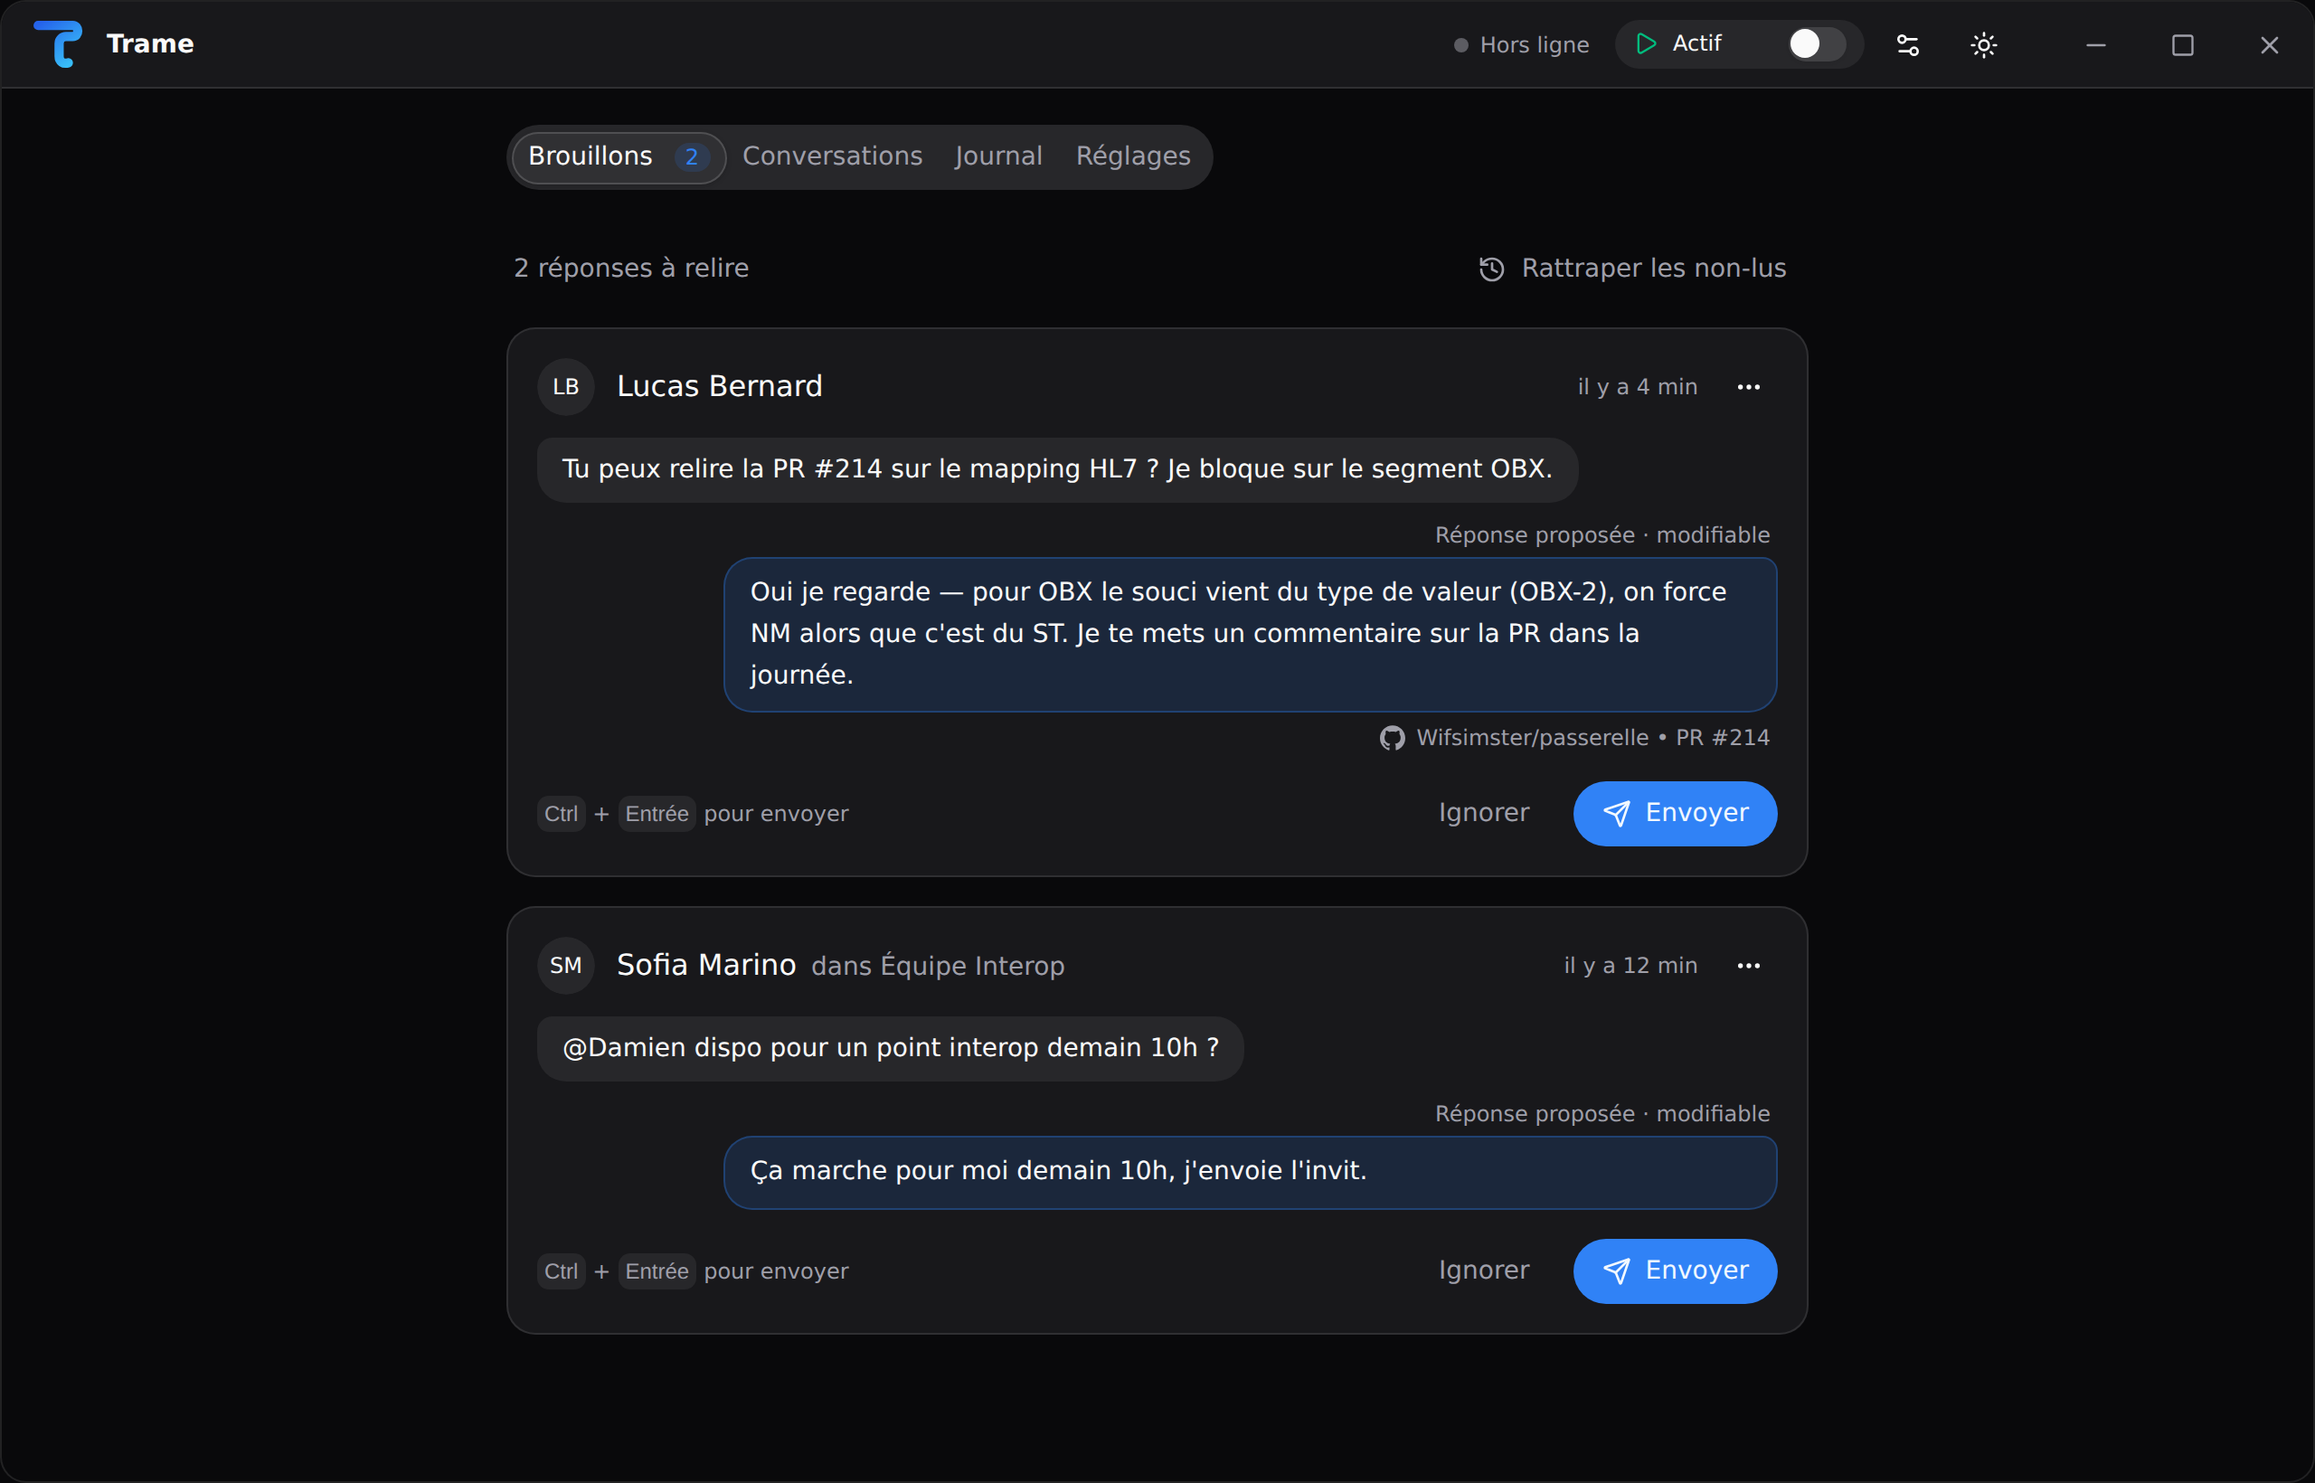
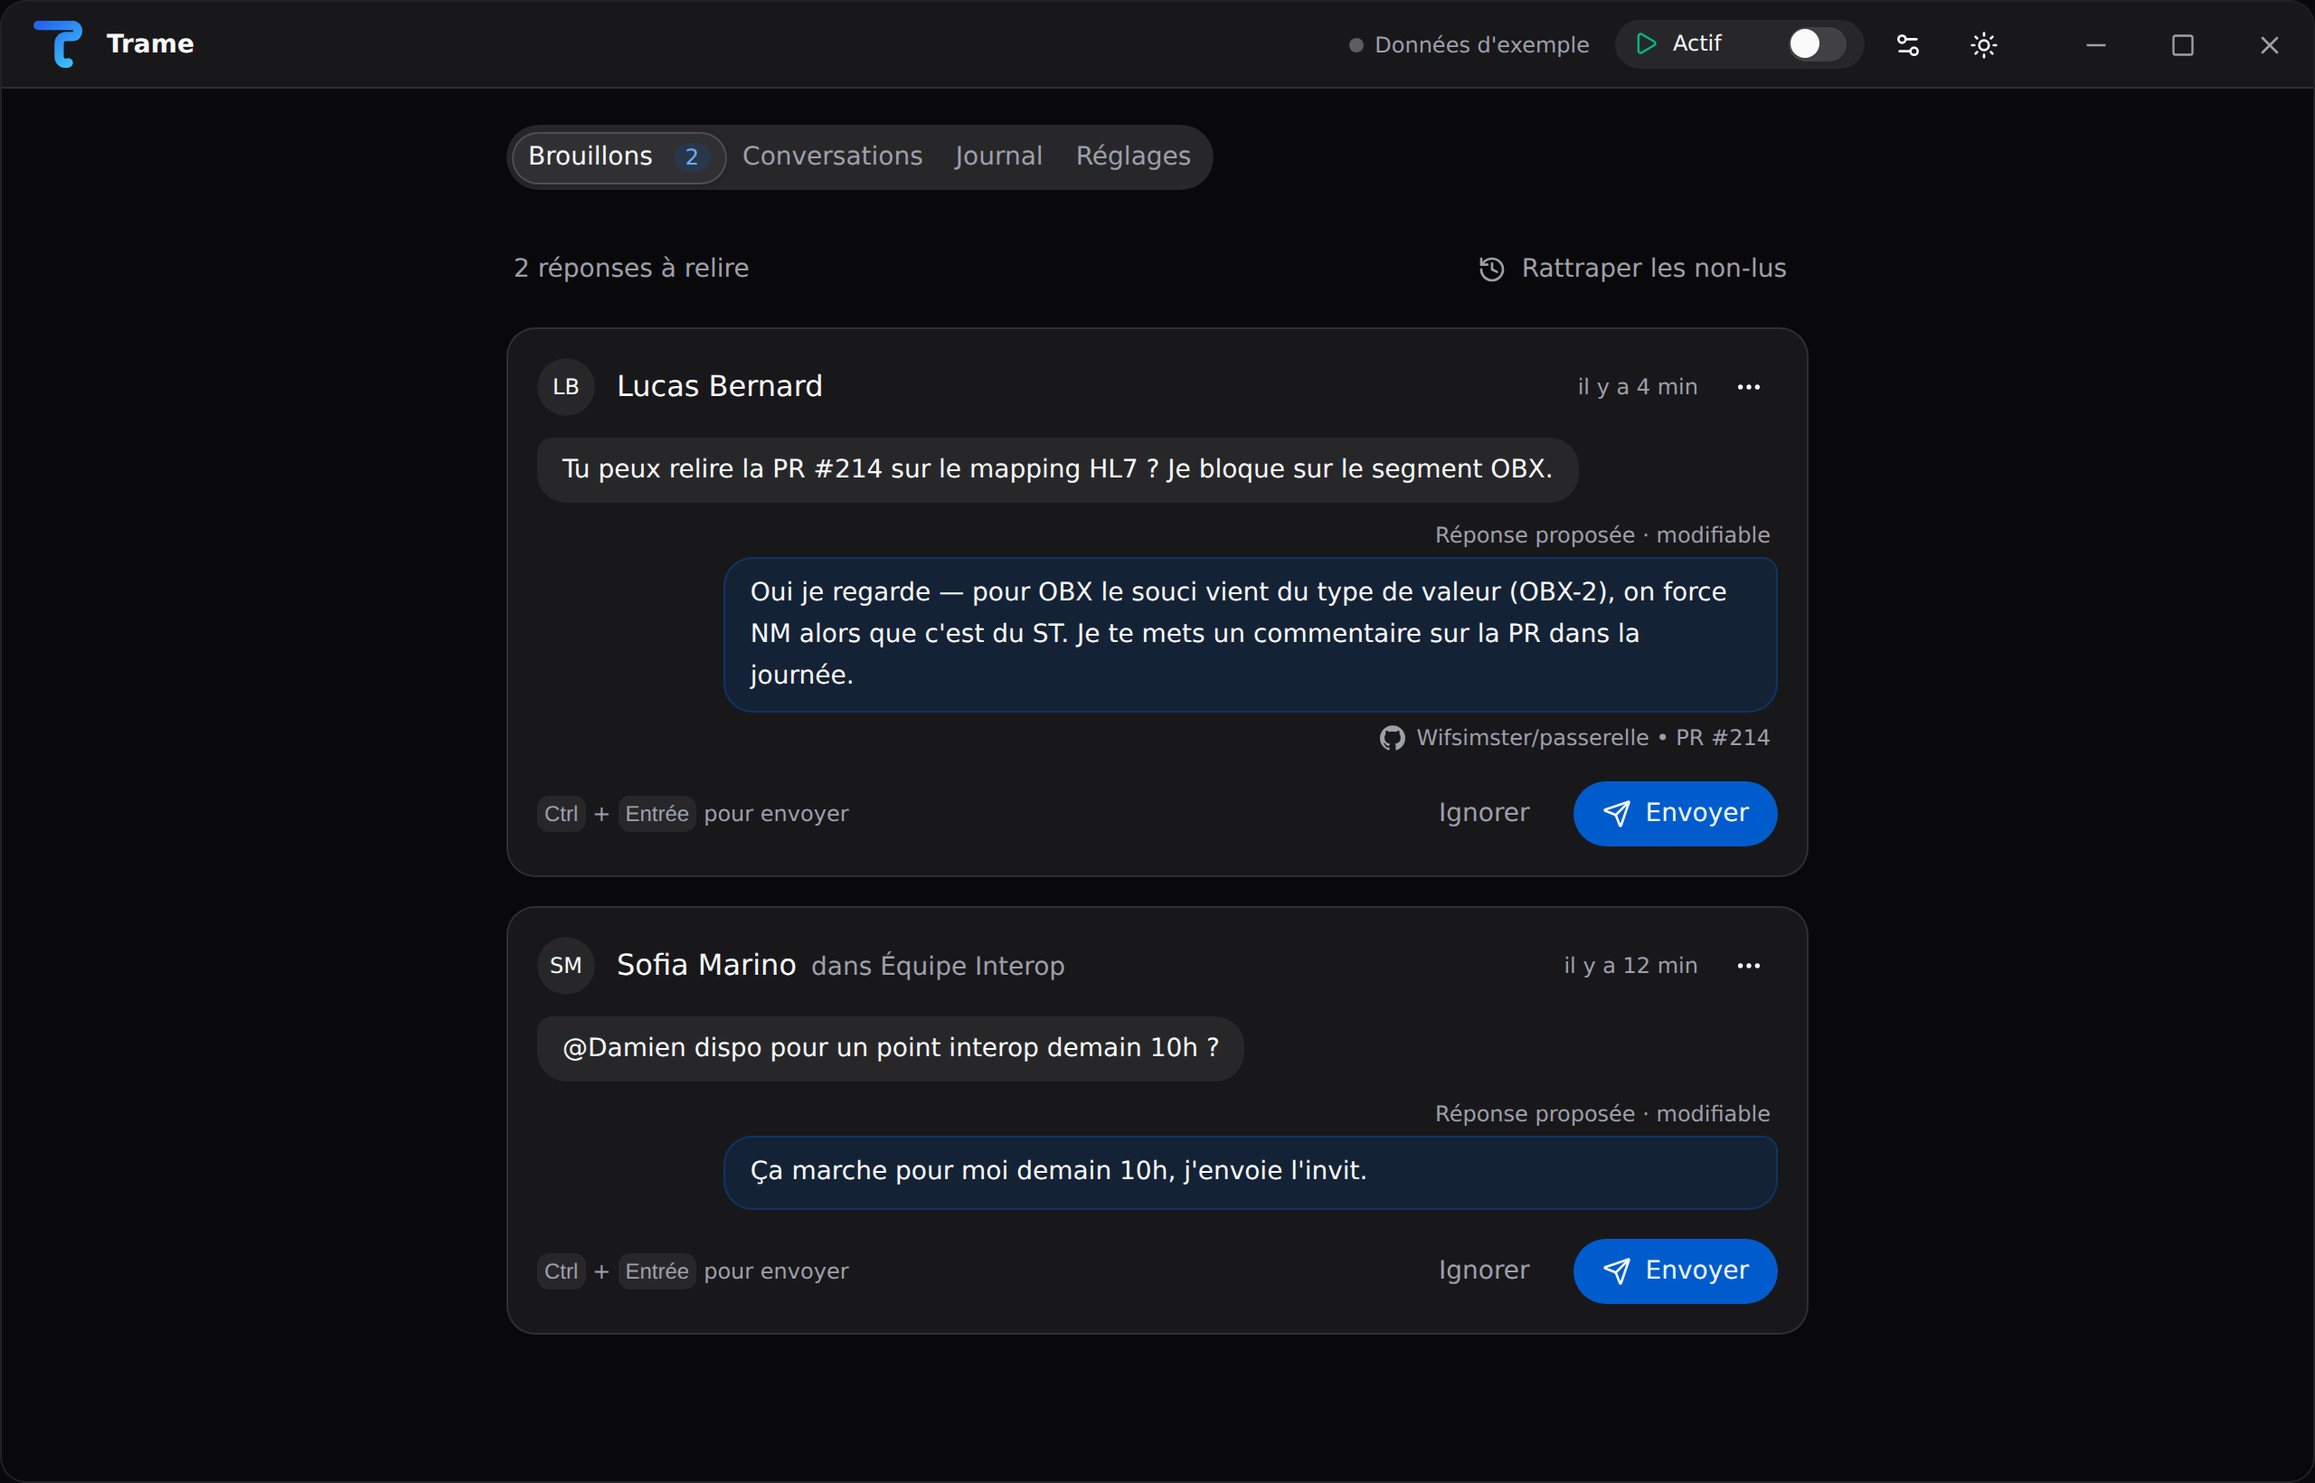
Passe anti-slop (antislop-ui, antislop-copywriting)
- Plus aucune animation en boucle au repos : une seule onde à la
  connexion, le fantôme s'immobilise après quelques cycles.
- États vides qui disent quoi faire : « Choisir des conversations »,
  « Tout afficher » ; plus de doublon « Tout est à jour ».
- « Données d'exemple » affiché en clair hors moteur.
- « Résumé » partout à l'écran (plus de « brief »).
- DESIGN.md : choix assumés de la check-list et leur raison.

Changed region(s): [[0.6562, 0.8085, 0.7812, 0.9018], [0.6562, 0.5287, 0.7812, 0.5909], [0.625, 0.0, 0.6562, 0.0311]]

diff --git a/ui/src/panel/Panel.tsx b/ui/src/panel/Panel.tsx
@@ -52,7 +52,7 @@ function ContextButton({ trame, target, onBrief, compact }: { trame: Trame; targ
         <span className="inline-flex">{button}</span>
       </TooltipTrigger>
       <TooltipContent>
-        {enabled ? "Résumé de la conversation et liens GitHub" : "Brief de conversation désactivé dans Réglages"}
+        {enabled ? "Résumé de la conversation et liens GitHub" : "Résumé désactivé dans les réglages"}
       </TooltipContent>
     </Tooltip>
   );
@@ -61,6 +61,7 @@ function ContextButton({ trame, target, onBrief, compact }: { trame: Trame; targ
 export function Panel({ trame }: { trame: Trame }) {
   const { state } = trame;
   const [briefFor, setBriefFor] = useState<BriefTarget | null>(null);
+  const [tab, setTab] = useState("drafts");
   // Le brief n'est chargé qu'à la première ouverture, puis reste monté pour ses animations.
   const [briefUsed, setBriefUsed] = useState(false);
   useEffect(() => {
@@ -101,7 +102,7 @@ export function Panel({ trame }: { trame: Trame }) {
         )}
       </AnimatePresence>
 
-      <Tabs defaultValue="drafts" className="flex min-h-0 flex-1 flex-col">
+      <Tabs value={tab} onValueChange={setTab} className="flex min-h-0 flex-1 flex-col">
         <TabsList className="self-start rounded-full">
           <TabsTrigger value="drafts" className="rounded-full">
             Brouillons <CountBadge n={state.drafts.length} />
@@ -112,7 +113,7 @@ export function Panel({ trame }: { trame: Trame }) {
         </TabsList>
 
         <TabsContent value="drafts" className="flex-1 overflow-auto">
-          <Drafts trame={trame} onBrief={setBriefFor} />
+          <Drafts trame={trame} onBrief={setBriefFor} onChoose={() => setTab("watchlist")} />
         </TabsContent>
         <TabsContent value="watchlist" className="flex-1 overflow-auto">
           <Watchlist trame={trame} onBrief={setBriefFor} />
@@ -133,7 +134,7 @@ export function Panel({ trame }: { trame: Trame }) {
   );
 }
 
-function Drafts({ trame, onBrief }: { trame: Trame; onBrief: OpenBrief }) {
+function Drafts({ trame, onBrief, onChoose }: { trame: Trame; onBrief: OpenBrief; onChoose: () => void }) {
   const drafts = trame.state.drafts;
   const [catching, setCatching] = useState<"idle" | "run" | "done">("idle");
   const [added, setAdded] = useState(0);
@@ -167,9 +168,7 @@ function Drafts({ trame, onBrief }: { trame: Trame; onBrief: OpenBrief }) {
             exit={{ opacity: 0, y: -4 }}
             className="ml-1 text-sm text-muted-foreground"
           >
-            {drafts.length === 0
-              ? "Tout est à jour"
-              : `${drafts.length} réponse${drafts.length > 1 ? "s" : ""} à relire`}
+            {drafts.length > 0 && `${drafts.length} réponse${drafts.length > 1 ? "s" : ""} à relire`}
           </motion.p>
         </AnimatePresence>
         <motion.div animate={controls}>
@@ -204,7 +203,9 @@ function Drafts({ trame, onBrief }: { trame: Trame; onBrief: OpenBrief }) {
       </div>
 
       <AnimatePresence initial={false} mode="popLayout">
-        {drafts.length === 0 && <EmptyDrafts key="empty" />}
+        {drafts.length === 0 && (
+          <EmptyDrafts key="empty" following={trame.state.watchlist.filter((w) => w.watch).length} onChoose={onChoose} />
+        )}
         {drafts.map((d) => (
           <DraftCard key={d.id} draft={d} trame={trame} onBrief={onBrief} />
         ))}
@@ -213,7 +214,7 @@ function Drafts({ trame, onBrief }: { trame: Trame; onBrief: OpenBrief }) {
   );
 }
 
-function EmptyDrafts() {
+function EmptyDrafts({ following, onChoose }: { following: number; onChoose: () => void }) {
   return (
     <motion.div
       initial={{ opacity: 0, scale: 0.97 }}
@@ -229,10 +230,22 @@ function EmptyDrafts() {
       >
         <Check className="size-6" strokeWidth={3} />
       </motion.span>
-      <p className="font-medium">Rien à relire</p>
-      <p className="max-w-xs text-sm text-muted-foreground">
-        Quand quelqu'un que tu suis t'écrit, sa réponse proposée apparaît ici.
-      </p>
+      {following > 0 ? (
+        <>
+          <p className="font-medium">Rien à relire</p>
+          <p className="max-w-xs text-sm text-muted-foreground">
+            Trame suit {following} conversation{following > 1 ? "s" : ""}. Quand on t'y écrit, la réponse proposée apparaît ici.
+          </p>
+        </>
+      ) : (
+        <>
+          <p className="font-medium">Aucune conversation suivie</p>
+          <p className="max-w-xs text-sm text-muted-foreground">Trame ne lit que les conversations que tu choisis.</p>
+          <Button variant="secondary" className="rounded-full" onClick={onChoose}>
+            Choisir des conversations
+          </Button>
+        </>
+      )}
     </motion.div>
   );
 }
@@ -492,7 +505,11 @@ function Logs({ logs }: { logs: LogItem[] }) {
       <SectionLabel>Activité</SectionLabel>
       <GroupList>
         <ScrollArea className="h-[58vh]">
-          {logs.length === 0 && <div className="px-4 py-6 text-center text-sm text-muted-foreground">Aucune activité pour l'instant.</div>}
+          {logs.length === 0 && (
+            <div className="px-4 py-6 text-center text-sm text-muted-foreground">
+              Aucune activité pour l'instant. Chaque message lu, réponse proposée ou envoi apparaîtra ici.
+            </div>
+          )}
           <AnimatePresence initial={false}>
             {logs.map((l) => (
               <motion.div

diff --git a/ui/src/components/SoulGhost.tsx b/ui/src/components/SoulGhost.tsx
@@ -21,7 +21,7 @@ const center = { transformBox: "fill-box", transformOrigin: "center" } as const;
 
 export function SoulGhost({ state, size = 76 }: { state: GhostState; size?: number }) {
   const body = {
-    idle: { y: [0, -4, 0], rotate: 0, scale: 1, transition: { y: { duration: 3, repeat: Infinity, ease: "easeInOut" as const } } },
+    idle: { y: [0, -4, 0], rotate: 0, scale: 1, transition: { y: { duration: 3, repeat: 2, ease: "easeInOut" as const } } },
     drag: { y: [-6, -10, -6], rotate: 0, scale: 1.12, transition: { y: { duration: 1.1, repeat: Infinity, ease: "easeInOut" as const }, scale: { type: "spring" as const, stiffness: 300, damping: 15 } } },
     ok: { y: [0, -12, 0, -3, 0], rotate: 0, scale: 1, transition: { y: { duration: 0.9, delay: 0.45, ease: "easeOut" as const } } },
     error: { y: 0, rotate: [0, -12, 10, -7, 4, 0], scale: 1, transition: { rotate: { duration: 0.6 } } },
@@ -61,7 +61,7 @@ export function SoulGhost({ state, size = 76 }: { state: GhostState; size?: numb
         strokeWidth={2.4}
         strokeLinejoin="round"
         animate={{ skewX: state === "error" ? 0 : [0, 2.5, 0, -2.5, 0] }}
-        transition={{ duration: state === "drag" ? 1.2 : 3.2, repeat: Infinity, ease: "easeInOut" }}
+        transition={{ duration: state === "drag" ? 1.2 : 3.2, repeat: state === "drag" ? Infinity : 2, ease: "easeInOut" }}
         style={{ transformBox: "fill-box", transformOrigin: "50% 0%" }}
       />
 
@@ -82,7 +82,7 @@ export function SoulGhost({ state, size = 76 }: { state: GhostState; size?: numb
                 transition={{
                   rx: { type: "spring", stiffness: 400, damping: 18 },
                   ry: { type: "spring", stiffness: 400, damping: 18 },
-                  scaleY: { duration: 4, times: [0, 0.9, 0.95, 1], repeat: Infinity },
+                  scaleY: { duration: 4, times: [0, 0.9, 0.95, 1], repeat: 2 },
                 }}
                 style={center}
               />

diff --git a/ui/src/App.tsx b/ui/src/App.tsx
@@ -197,16 +197,21 @@ function ConnectionBadge({ connected, demo }: { connected: boolean; demo: boolea
       <TooltipTrigger asChild>
         <div className="flex items-center gap-1.5 rounded-full px-2 py-1 text-xs text-muted-foreground">
           <span className="relative grid size-2 place-items-center">
-            {connected && (
-              <motion.span
-                className="absolute inset-0 rounded-full bg-success"
-                animate={{ scale: [1, 2.4], opacity: [0.6, 0] }}
-                transition={{ duration: 1.6, repeat: Infinity, ease: "easeOut" }}
-              />
-            )}
+            {/* Une seule onde à la connexion : elle confirme le changement d'état, puis le point reste calme. */}
+            <AnimatePresence>
+              {connected && (
+                <motion.span
+                  key="ping"
+                  className="absolute inset-0 rounded-full bg-success"
+                  initial={{ scale: 1, opacity: 0.6 }}
+                  animate={{ scale: 2.4, opacity: 0 }}
+                  transition={{ duration: 1.2, ease: "easeOut" }}
+                />
+              )}
+            </AnimatePresence>
             <span className={cn("relative size-2 rounded-full transition-colors duration-300", connected ? "bg-success" : "bg-muted-foreground/50")} />
           </span>
-          <span className="hidden sm:inline">{connected ? "En direct" : "Hors ligne"}</span>
+          <span className="hidden sm:inline">{connected ? "En direct" : demo ? "Données d'exemple" : "Hors ligne"}</span>
         </div>
       </TooltipTrigger>
       <TooltipContent>

diff --git a/ui/src/components/ConversationList.tsx b/ui/src/components/ConversationList.tsx
@@ -127,8 +127,20 @@ export function ConversationList({
               </div>
             ))}
             {visible.length === 0 && (
-              <div className="px-4 py-10 text-center text-sm text-muted-foreground">
+              <div className="flex flex-col items-center gap-2 px-4 py-10 text-center text-sm text-muted-foreground">
                 Aucune conversation ne correspond{query ? ` à « ${query} »` : ""}.
+                {(query || filter !== "all") && (
+                  <button
+                    type="button"
+                    className="font-medium text-link hover:underline"
+                    onClick={() => {
+                      setQuery("");
+                      setFilter("all");
+                    }}
+                  >
+                    Tout afficher
+                  </button>
+                )}
               </div>
             )}
           </div>

diff --git a/ui/src/components/BriefSheet.tsx b/ui/src/components/BriefSheet.tsx
@@ -76,7 +76,7 @@ export function BriefSheet({
       setPhase("error");
       progressCtl.start(shake);
       toast.error(`Brief impossible pour « ${t.displayName} »`, {
-        description: `${res.error} Rien n'a été perdu${prev ? ", le brief précédent est conservé" : ""}.`,
+        description: `${res.error} Rien n'a été perdu${prev ? ", le résumé précédent est conservé" : ""}.`,
       });
       return;
     }

diff --git a/DESIGN.md b/DESIGN.md
@@ -219,3 +219,16 @@ couche UIA se cale sur la machine (phase 0, le vrai go/no-go).
 - **Accessibilité** : audit axe-core WCAG 2 AA sur les 12 écrans, sans violation (hors animations d'apparition). Chaque interrupteur et bouton-icône a un nom accessible.
 - **Vocabulaire** : on *suit* une conversation (jamais « surveiller », jamais « watchlist » à l'écran) ; « Résumé » pour le brief ; pas de jargon technique (sélecteurs, wizard) ; pas de flèches ni d'emoji dans les textes ; phrases courtes, deux-points plutôt que tirets.
 - **Parcours façon Apple** : une idée par écran, titre court + une phrase, bouton principal unique en bas, « Retour » en haut à gauche, étape facultative encore vide → bouton « Plus tard » en retrait, récapitulatif avant activation.
+
+### Passe anti-slop (skill `antislop-ui` + `antislop-copywriting`, miqdadbadjuber/anti-slop)
+
+Check-list UI appliquée écran par écran ; choix assumés, avec leur raison :
+
+- **Palette** : bleu Trame + neutres zinc + vert/orange/rouge d'état uniquement. Aucun dégradé, verre, lueur ni grille de fond. Le bleu est réservé à l'action principale et au texte d'accent.
+- **Rayons** : pilule pour les boutons, onglets et contrôles segmentés (convention macOS/iOS demandée : « style Apple ») ; cartes et listes en `rounded-2xl`. Pas de pilule sur les textes ni les blocs de contenu.
+- **Icônes** : Lucide, cohérent avec shadcn ; aucune icône « IA » générique (étoile, baguette). Les logos Claude, Copilot et GitHub sont les vrais logos (simple-icons). Le fantôme du dépôt de `SOUL.md` est une illustration liée au produit (l'« âme »), demandée explicitement.
+- **Police** : Segoe UI, police système de Windows, cible unique de l'application.
+- **Mouvement** : aucune boucle infinie au repos. Le point « En direct » émet une seule onde à la connexion ; le fantôme flotte et cligne quelques fois puis s'immobilise, et ne s'anime en continu que pendant un glisser-déposer. Seuls les indicateurs de chargement tournent tant qu'une action est en cours.
+- **États vides** : chacun dit pourquoi et quoi faire (« Aucune conversation suivie » → « Choisir des conversations » ; recherche sans résultat → « Tout afficher »).
+- **Données** : hors moteur, l'en-tête affiche « Données d'exemple » en clair, pas seulement dans une infobulle.
+- **Textes** : pas de tiret cadratin, d'emoji, de flèche, de majuscules d'emphase ni de synonymes en alternance (« résumé » partout, jamais « brief » à l'écran).
